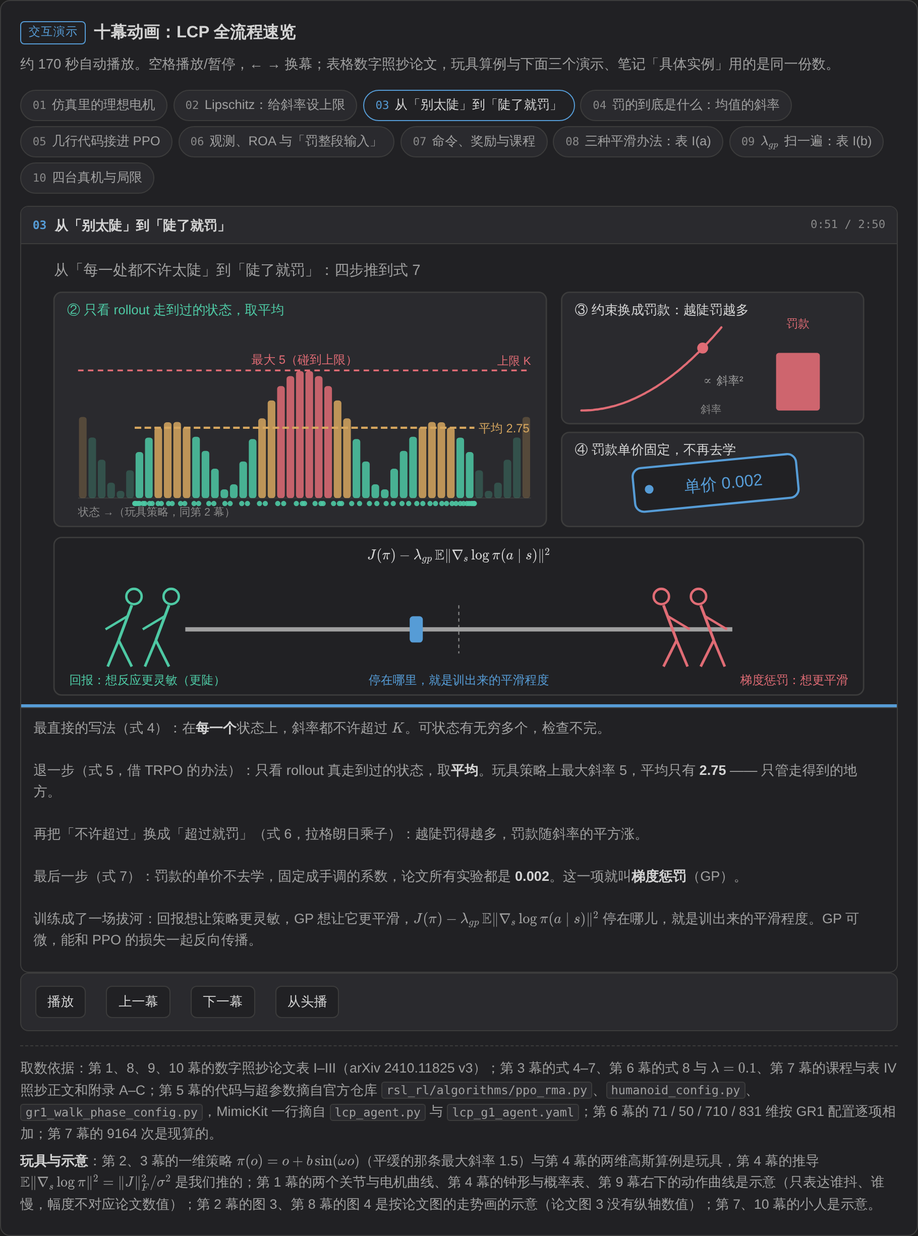
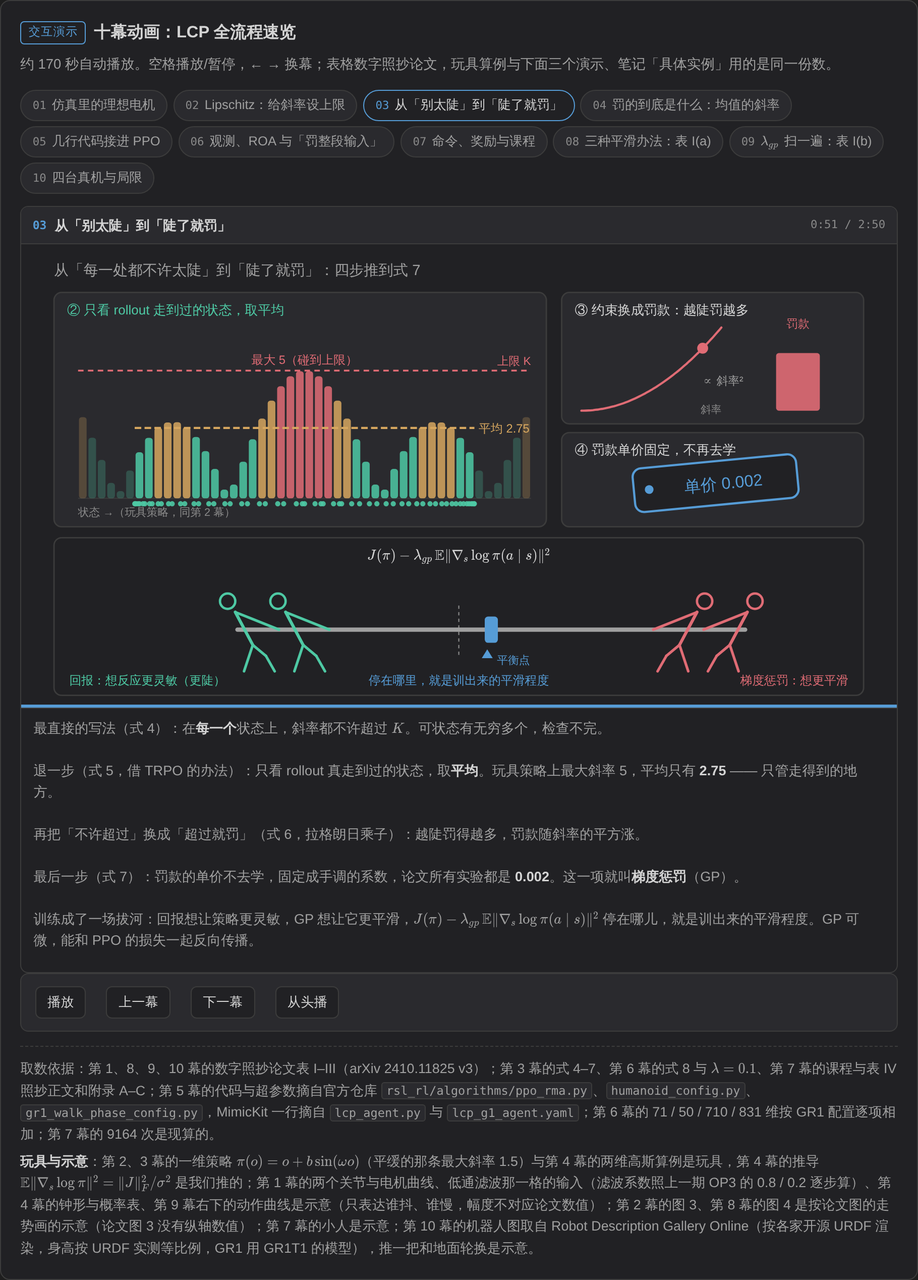
fix(Demo): LCP 第 3 幕拔河改成绳与两队一起动、往后仰拉、停回平衡点；第 10 幕换成按开源 URDF 渲染的真机图
- 第 3 幕：之前绳子不动、只有红标和人在平移，人往前扑、手臂朝后；现在绳子、红标、两队一起移动，
  人往后仰、手握绳，每 7 秒被扯一次、来回晃几下停回「平衡点」，一轮首尾接得上不跳
- 第 10 幕：火柴人换成 Robot Description Gallery Online 按各家开源 URDF 渲染的缩略图（GR1T1、H1、
  Berkeley Humanoid），按 URDF 实测身高等比例站在同一条地面上；表 III 那段地面轮换平地 / 软地 / 粗糙，
  对应的柱子亮起；「外力推搡也能恢复」那段推 H1 一把、绕脚踝晃几下站回
- render.mjs 新增 clip 模式：只渲染一段时间并配同一段旁白，改了某一幕先出这段给人看
- 视频与封面这次没重渲

Claude-Session: https://claude.ai/code/session_013tRtwySF8SsihXoqMvF3PW

diff --git a/assets/js/demos/lcp.js b/assets/js/demos/lcp.js
@@ -21,6 +21,15 @@
   'use strict';
 
   var K = window.PaperDemoKit;
+  /* 第 10 幕的机器人图放在 assets/img/robots/，按本脚本自己的地址找（网页与离线视频都适用） */
+  var ROBOT_IMG_BASE = (function () {
+    var cs = document.currentScript;
+    try {
+      return cs && cs.src ? new URL('../../img/robots/', cs.src).href : '';
+    } catch (e) {
+      return '';
+    }
+  })();
   var el = K.el,
     fmt = K.fmt,
     clamp = K.clamp,
@@ -107,6 +116,14 @@
     ['Fourier GR1T1 / T2', '21 个关节，脚踝横滚力矩太小当被动关节，控制 19 个'],
     ['Unitree H1', '19 个关节，全部主动控制'],
     ['Berkeley Humanoid', '高 0.85 m，12 个自由度'],
+  ];
+  /* 第 10 幕的机器人图：Robot Description Gallery Online（github.com/ImChong/Robot_Description_Gallery_Online）
+     按各家开源 URDF 渲染的缩略图，裁到机身、按 URDF 实测身高等比例缩放（GR1 用的是 GR1T1 的模型）。
+     h 是 URDF 实测身高（m），ar 是图的宽高比；论文只写了伯克利人形高 0.85 m。 */
+  var ROBOT_IMGS = [
+    { file: 'gr1.webp', h: 1.6133, ar: 0.2384 },
+    { file: 'h1.webp', h: 1.806, ar: 0.3047 },
+    { file: 'berkeley_humanoid.webp', h: 0.8735, ar: 0.3771 }
   ];
   /* 官方代码（GR1 配置 gr1_walk_phase_config.py 与 rsl_rl 的 ppo_rma.py）里的数 */
   var OBS_GR1 = {
@@ -1213,23 +1230,34 @@
     var tug = group(s);
     rectBox(tug, 30, 268, 740, 144, C_BORDER);
     tug.appendChild(svgMath(400, 290, 'J(\\pi) - \\lambda_{gp}\\,\\mathbb{E}\\lVert\\nabla_s\\log\\pi(a\\mid s)\\rVert^2', { size: 13, anchor: 'middle', w: 520 }));
-    tug.appendChild(paint(svgEl('line', { x1: 150, y1: 352, x2: 650, y2: 352, 'stroke-width': 4 }), null, C_INK2));
-    var knot = paint(svgEl('rect', { y: 340, width: 12, height: 24, rx: 3 }), C_ACCENT);
-    tug.appendChild(knot);
-    tug.appendChild(paint(svgEl('line', { x1: 400, y1: 330, x2: 400, y2: 374, 'stroke-width': 1, 'stroke-dasharray': '3 3' }), null, C_MUTED));
-    function team(x, dir, color) {
-      var g = group(tug);
-      for (var m = 0; m < 2; m++) {
-        var fx = x + dir * m * 34;
-        g.appendChild(paint(svgEl('circle', { cx: fx + dir * 10, cy: 322, r: 7, fill: 'none', 'stroke-width': 2.2 }), null, color));
-        g.appendChild(paint(svgEl('line', { x1: fx + dir * 8, y1: 330, x2: fx - dir * 4, y2: 362, 'stroke-width': 2.6 }), null, color));
-        g.appendChild(paint(svgEl('line', { x1: fx - dir * 4, y1: 362, x2: fx + dir * 8, y2: 386, 'stroke-width': 2.4 }), null, color));
-        g.appendChild(paint(svgEl('line', { x1: fx - dir * 4, y1: 362, x2: fx - dir * 14, y2: 386, 'stroke-width': 2.4 }), null, color));
-        g.appendChild(paint(svgEl('line', { x1: fx + dir * 4, y1: 340, x2: fx - dir * 16, y2: 352, 'stroke-width': 2.2 }), null, color));
-      }
+    /* 拔河：绳子、绳上的红标和两队人一起移动；人往后仰、手握在绳上。
+       每 7 秒一轮：从平衡点被猛扯一下，来回晃几下又回到「平衡点」（示意：平衡点的位置由系数决定，这里不对应具体数值）。
+       一轮结束时离平衡点不到 0.5，下一轮从平衡点接着开始，不会跳。 */
+    var TUG_Y = 352, TUG_EQ = 26;
+    tug.appendChild(paint(svgEl('line', { x1: 400, y1: 330, x2: 400, y2: 376, 'stroke-width': 1, 'stroke-dasharray': '3 3' }), null, C_MUTED));
+    var eqMark = group(tug);
+    eqMark.appendChild(paint(svgEl('path', { d: 'M' + (400 + TUG_EQ - 5) + ',378 L' + (400 + TUG_EQ + 5) + ',378 L' + (400 + TUG_EQ) + ',370 Z' }), C_ACCENT));
+    eqMark.appendChild(svgText(400 + TUG_EQ + 9, 383, '平衡点', 'demo-x-acc', 10));
+    var moving = group(tug);
+    moving.appendChild(paint(svgEl('line', { x1: 168, y1: TUG_Y, x2: 632, y2: TUG_Y, 'stroke-width': 4, 'stroke-linecap': 'round' }), null, C_INK2));
+    moving.appendChild(paint(svgEl('rect', { x: 394, y: TUG_Y - 12, width: 12, height: 24, rx: 3 }), C_ACCENT));
+    /* 一个人：手握在绳上的 hx，身体往远离中线的方向仰；away = −1 往左拉，+1 往右拉 */
+    function puller(hx, away, color) {
+      var g = group(moving);
+      function X(d) { return hx + away * d; }
+      function ln(x1, y1, x2, y2, w) { g.appendChild(paint(svgEl('line', { x1: x1, y1: y1, x2: x2, y2: y2, 'stroke-width': w, 'stroke-linecap': 'round' }), null, color)); }
+      ln(X(40), 336, hx, TUG_Y, 2.4);            // 手臂伸向绳子
+      ln(X(40), 336, X(24), 366, 2.8);           // 身体往后仰
+      ln(X(24), 366, X(12), 376, 2.4);           // 前腿蹬住
+      ln(X(12), 376, X(4), 390, 2.4);
+      ln(X(24), 366, X(32), 390, 2.4);           // 后腿
+      g.appendChild(paint(svgEl('circle', { cx: X(47), cy: 326, r: 7, fill: 'none', 'stroke-width': 2.2 }), null, color));
       return g;
     }
-    var tL = team(132, 1, C_GOOD), tR = team(668, -1, C_BAD);
+    puller(206, -1, C_GOOD);
+    puller(252, -1, C_GOOD);
+    puller(594, 1, C_BAD);
+    puller(548, 1, C_BAD);
     tug.appendChild(svgText(44, 402, '回报：想反应更灵敏（更陡）', 'demo-x-good', 11));
     tug.appendChild(svgText(756, 402, '梯度惩罚：想更平滑', 'demo-x-bad', 11, 'end'));
     tug.appendChild(svgText(400, 402, '停在哪里，就是训出来的平滑程度', 'demo-x-acc', 11, 'middle'));
@@ -1257,10 +1285,11 @@
       setOpacity(R2, seg(t, 10.4, 11.0));
       tag.setAttribute('transform', 'rotate(' + (6 * Math.sin(2.1 * now)).toFixed(2) + ' 574 224)');
       setOpacity(tug, seg(t, 13.4, 14.0));
-      var off = 40 * Math.sin(1.4 * now) * (0.55 + 0.45 * Math.cos(0.37 * now));
-      knot.setAttribute('x', (394 + off).toFixed(1));
-      tL.setAttribute('transform', 'translate(' + off.toFixed(1) + ' 0)');
-      tR.setAttribute('transform', 'translate(' + off.toFixed(1) + ' 0)');
+      /* 每 7 秒一轮：被一边猛扯，再来回晃，越晃越小，停回平衡点；外加一点点抖，表示两边一直在用力 */
+      var tau = now % 7;
+      var off = TUG_EQ + 46 * Math.sin(2.4 * tau) * Math.exp(-tau / 1.5) + 1.2 * Math.sin(11 * now);
+      moving.setAttribute('transform', 'translate(' + off.toFixed(1) + ' 0)');
+      setOpacity(eqMark, seg(t, 14.6, 15.2));
     }
     return { el: s, draw: draw };
   }
@@ -1968,32 +1997,57 @@
     var s = sceneSvg('四台人形：傅利叶 GR1T1 与 GR1T2 二十一个关节控制十九个，宇树 H1 十九个关节，伯克利人形高 0.85 米十二个自由度；表 II MuJoCo 任务回报 24.33、21.74、26.50；表 III 真机三种地面动作抖动基本不变，最多涨 8%；局限：只验证了基础行走');
     s.appendChild(svgText(30, 28, '四台人形：先 MuJoCo，再上真机，一个系数 0.002', 'demo-x-ink2', 13.5));
 
+    /* 三台机器人站在同一条地面上，按 URDF 实测身高等比例；地面在表 III 那一段轮换平地 / 软地 / 粗糙 */
     var robots = group(s);
-    var figs = [];
-    ROBOTS.forEach(function (r, k) {
-      var x = 30 + k * 250;
-      var g = group(robots);
-      rectBox(g, x, 42, 240, 116, C_BORDER, C_SURFACE2);
-      g.appendChild(svgText(x + 12, 62, r[0], null, 12));
-      var parts = r[1].split('，');
-      parts.forEach(function (p, q) {
-        g.appendChild(svgText(x + 12, 84 + q * 18, p, 'demo-x-ink2', 10.5));
+    rectBox(robots, 30, 42, 740, 152, C_BORDER, C_SURFACE2);
+    var defs = svgEl('defs', {});
+    var halo = svgEl('radialGradient', { id: 'lcp-x-halo-s10' });
+    halo.appendChild(svgEl('stop', { offset: '0', 'stop-color': '#a3acb9', 'stop-opacity': '0.5' }));
+    halo.appendChild(svgEl('stop', { offset: '1', 'stop-color': '#a3acb9', 'stop-opacity': '0' }));
+    defs.appendChild(halo);
+    s.appendChild(defs);
+    var GY = 176, PPM_U = 68;
+    var gFlat = group(robots), gSoft = group(robots), gRough = group(robots);
+    /* 地面颜色与表 III 图例一致：平地蓝、软地黄、粗糙红 */
+    gFlat.appendChild(paint(svgEl('line', { x1: 40, y1: GY, x2: 760, y2: GY, 'stroke-width': 1.8 }), null, C_ACCENT));
+    gSoft.appendChild(paint(svgEl('rect', { x: 40, y: GY - 2, width: 720, height: 9, rx: 4, 'fill-opacity': 0.28 }), C_WARN));
+    pathLine(gSoft, (function () {
+      var pts = [];
+      for (var x = 40; x <= 760; x += 6) pts.push([x, GY + 1.2 * Math.sin(x / 9)]);
+      return pts;
+    })(), C_WARN, 1.4);
+    pathLine(gRough, (function () {
+      var pts = [], rng = mulberry32(12);
+      for (var x = 40; x <= 760; x += 7) pts.push([x, GY + 1 - 4 * rng()]);
+      return pts;
+    })(), C_BAD, 1.6);
+    var terrainTxt = svgText(40, 189, '', 'demo-x-mut', 9.5);
+    robots.appendChild(terrainTxt);
+    robots.appendChild(svgText(762, 189, '图：Robot Description Gallery Online，按开源 URDF 渲染 · 身高按 URDF 等比例', 'demo-x-mut', 9, 'end'));
+    var bots = ROBOTS.map(function (r, k) {
+      var x0 = 30 + k * 247, cx = x0 + 44, im = ROBOT_IMGS[k];
+      var hU = im.h * PPM_U, wU = hU * im.ar;
+      var col = group(robots);
+      col.appendChild(paint(svgEl('ellipse', { cx: cx, cy: GY - hU * 0.5, rx: 34, ry: hU * 0.58 }), 'url(#lcp-x-halo-s10)'));
+      var body = group(col);
+      body.appendChild(svgEl('image', { href: ROBOT_IMG_BASE + im.file, x: (cx - wU / 2).toFixed(1), y: (GY - hU).toFixed(1), width: wU.toFixed(1), height: hU.toFixed(1), preserveAspectRatio: 'xMidYMax meet' }));
+      col.appendChild(svgText(x0 + 84, 66, r[0], null, 12));
+      r[1].split('，').forEach(function (p, q) {
+        col.appendChild(svgText(x0 + 84, 86 + q * 18, p, 'demo-x-ink2', 10.5));
       });
-      var full = k < 2;
-      var fig = K.stickFigure(k === 2 ? C_GOOD : C_ACCENT, 2.4, false, 0.4);
-      fig.el.setAttribute('transform', 'translate(' + (x + 200) + ',' + (full ? 98 : 124) + ') scale(' + (full ? 0.62 : 0.33) + ')');
-      g.appendChild(fig.el);
-      figs.push(fig);
-      g.at = 0.3 + k * 1.1;
-      return g;
+      return { col: col, body: body, cx: cx, hU: hU };
     });
-    var robotTag = group(s);
-    robotTag.appendChild(svgText(770, 172, '小人是示意；只有伯克利人形的身高写在论文里', 'demo-x-mut', 9.5, 'end'));
+    /* 推一把：外力推搡也能恢复（补充视频），推 H1 的身体，绕脚踝晃几下站回来 */
+    var push = group(robots);
+    var pushMk = K.arrowMarker(s, 'lcp-x-arrow-s10', C_WARN);
+    var pushY = GY - bots[1].hU * 0.62;
+    push.appendChild(paint(svgEl('line', { x1: bots[1].cx - 62, y1: pushY, x2: bots[1].cx - 22, y2: pushY, 'stroke-width': 3.4, 'marker-end': pushMk }), null, C_WARN));
+    push.appendChild(svgText(bots[1].cx - 64, pushY - 8, '推一把', 'demo-x-warn', 10));
 
     var s2s = group(s);
-    rectBox(s2s, 30, 182, 230, 150, C_BORDER, C_SURFACE2);
-    s2s.appendChild(svgText(42, 200, '表 II：MuJoCo 任务回报', 'demo-x-ink2', 11));
-    var SB = 304, SH = 80;
+    rectBox(s2s, 30, 200, 230, 132, C_BORDER, C_SURFACE2);
+    s2s.appendChild(svgText(42, 218, '表 II：MuJoCo 任务回报', 'demo-x-ink2', 11));
+    var SB = 304, SH = 70;
     var sNames = ['GR1', 'H1', 'Berkeley'];
     var sBars = TABLE2.map(function (r, k) {
       var bx = 52 + k * 70;
@@ -2006,8 +2060,8 @@
     s2s.appendChild(paint(svgEl('line', { x1: 44, y1: SB, x2: 252, y2: SB, 'stroke-width': 1 }), null, C_BORDER));
 
     var real = group(s);
-    rectBox(real, 274, 182, 496, 150, C_BORDER, C_SURFACE2);
-    real.appendChild(svgText(286, 200, '表 III：真机动作抖动（3 个模型 × 10 s）', 'demo-x-ink2', 11));
+    rectBox(real, 274, 200, 496, 132, C_BORDER, C_SURFACE2);
+    real.appendChild(svgText(286, 218, '表 III：真机动作抖动（3 个模型 × 10 s）', 'demo-x-ink2', 11));
     var RB = 304, RH = 75;
     var tCols = [C_ACCENT, C_WARN, C_BAD];
     var rBars = [];
@@ -2025,8 +2079,8 @@
     real.appendChild(paint(svgEl('line', { x1: 286, y1: RB, x2: 760, y2: RB, 'stroke-width': 1 }), null, C_BORDER));
     var tLeg = group(real);
     TERRAINS.forEach(function (n, q) {
-      tLeg.appendChild(paint(svgEl('rect', { x: 560 + q * 70, y: 192, width: 10, height: 10, rx: 2 }), tCols[q]));
-      tLeg.appendChild(svgText(574 + q * 70, 201, n, 'demo-x-mut', 9.5));
+      tLeg.appendChild(paint(svgEl('rect', { x: 560 + q * 70, y: 210, width: 10, height: 10, rx: 2 }), tCols[q]));
+      tLeg.appendChild(svgText(574 + q * 70, 219, n, 'demo-x-mut', 9.5));
     });
 
     var lim = group(s);
@@ -2036,18 +2090,33 @@
 
     function draw(t, clock) {
       var now = clock == null ? t : clock;
-      robots.childNodes.forEach(function (g, k) { setOpacity(g, seg(t, 0.3 + k * 1.1, 0.9 + k * 1.1)); });
-      figs.forEach(function (f, k) { f.pose(0, 0, K.poseWalk((now * 0.9 + k * 0.33) % 1)); });
-      setOpacity(robotTag, seg(t, 3.0, 3.6));
+      setOpacity(robots, seg(t, 0.2, 0.6));
+      var pushOn = seg(t, 10.4, 10.8), ptau = now % 4;
+      bots.forEach(function (b, k) {
+        setOpacity(b.col, seg(t, 0.3 + k * 1.1, 0.9 + k * 1.1));
+        var th = 0.7 * Math.sin(1.3 * now + 2 * k);
+        if (k === 1 && pushOn > 0) th += 9 * Math.exp(-ptau / 0.7) * Math.sin(6 * ptau) * pushOn;
+        b.body.setAttribute('transform', 'rotate(' + th.toFixed(2) + ' ' + b.cx + ' ' + GY + ')');
+      });
+      setOpacity(push, pushOn * clamp(1 - (ptau - 0.25) / 0.35, 0, 1));
+      /* 表 III 那一段起，地面每 2.5 秒换一种，柱子里对应的那一种亮起来 */
+      var ter = t >= 7.0 ? Math.floor(now / 2.5) % 3 : 0;
+      setOpacity(gFlat, ter === 0 ? 1 : 0);
+      setOpacity(gSoft, ter === 1 ? 1 : 0);
+      setOpacity(gRough, ter === 2 ? 1 : 0);
+      terrainTxt.textContent = '地面：' + TERRAINS[ter];
       setOpacity(s2s, seg(t, 3.6, 4.2));
       sBars.forEach(function (it, k) {
         setH(it.b, it.h * ease(seg(t, 4.0 + k * 0.4, 4.8 + k * 0.4)));
         setOpacity(it.lab, seg(t, 4.6 + k * 0.4, 5.0 + k * 0.4));
       });
       setOpacity(real, seg(t, 7.0, 7.6));
+      var lit = seg(t, 8.8, 9.2);
       rBars.forEach(function (it, k) {
         setH(it.b, it.h * ease(seg(t, 7.4 + k * 0.2, 8.2 + k * 0.2)));
-        setOpacity(it.lab, seg(t, 8.0 + k * 0.2, 8.4 + k * 0.2));
+        var dim = k % 3 === ter ? 1 : 1 - 0.6 * lit;
+        it.b.style.opacity = (0.9 * dim).toFixed(2);
+        setOpacity(it.lab, seg(t, 8.0 + k * 0.2, 8.4 + k * 0.2) * dim);
       });
       setOpacity(lim, seg(t, 10.4, 11.0));
       setOpacity(fin, seg(t, 13.4, 14.0));
@@ -2186,7 +2255,7 @@
       notes: [
         '取数依据：第 1、8、9、10 幕的数字照抄论文表 I–III（arXiv 2410.11825 v3）；第 3 幕的式 4–7、第 6 幕的式 8 与 $\\lambda = 0.1$、第 7 幕的课程与表 IV 照抄正文和附录 A–C；' +
           '第 5 幕的代码与超参数摘自官方仓库 `rsl_rl/algorithms/ppo_rma.py`、`humanoid_config.py`、`gr1_walk_phase_config.py`，MimicKit 一行摘自 `lcp_agent.py` 与 `lcp_g1_agent.yaml`；第 6 幕的 71 / 50 / 710 / 831 维按 GR1 配置逐项相加；第 7 幕的 9164 次是现算的。',
-        '**玩具与示意**：第 2、3 幕的一维策略 $\\pi(o) = o + b\\sin(\\omega o)$（平缓的那条最大斜率 1.5）与第 4 幕的两维高斯算例是玩具，第 4 幕的推导 $\\mathbb{E}\\lVert\\nabla_s\\log\\pi\\rVert^2 = \\lVert J\\rVert_F^2/\\sigma^2$ 是我们推的；第 1 幕的两个关节与电机曲线、低通滤波那一格的输入（滤波系数照上一期 OP3 的 0.8 / 0.2 逐步算）、第 4 幕的钟形与概率表、第 9 幕右下的动作曲线是示意（只表达谁抖、谁慢，幅度不对应论文数值）；第 2 幕的图 3、第 8 幕的图 4 是按论文图的走势画的示意（论文图 3 没有纵轴数值）；第 7、10 幕的小人是示意。'
+        '**玩具与示意**：第 2、3 幕的一维策略 $\\pi(o) = o + b\\sin(\\omega o)$（平缓的那条最大斜率 1.5）与第 4 幕的两维高斯算例是玩具，第 4 幕的推导 $\\mathbb{E}\\lVert\\nabla_s\\log\\pi\\rVert^2 = \\lVert J\\rVert_F^2/\\sigma^2$ 是我们推的；第 1 幕的两个关节与电机曲线、低通滤波那一格的输入（滤波系数照上一期 OP3 的 0.8 / 0.2 逐步算）、第 4 幕的钟形与概率表、第 9 幕右下的动作曲线是示意（只表达谁抖、谁慢，幅度不对应论文数值）；第 2 幕的图 3、第 8 幕的图 4 是按论文图的走势画的示意（论文图 3 没有纵轴数值）；第 7 幕的小人是示意；第 10 幕的机器人图取自 Robot Description Gallery Online（按各家开源 URDF 渲染，身高按 URDF 实测等比例，GR1 用 GR1T1 的模型），推一把和地面轮换是示意。'
       ],
       scenes: LCP_SCENES
     });

diff --git a/AGENTS.md b/AGENTS.md
@@ -85,7 +85,7 @@ Jekyll 把笔记渲染成同名 `.html`，源 `.md` 不会发布，所以 `[PPO]
 
 ### 讲解动画的幕数按内容定，不是固定五幕
 
-`K.explainer` 不限制分镜数量，**幕数应当由论文本身决定**：一个核心概念一幕，开篇提出几个问题就得有几幕来回答，不要为了凑齐模板而拆分或合并。当前 PPO / DeepMimic / AMP / ADD / CALM 各 5 幕（与各自笔记「是怎么做的」那几节一一对应），PHC 6 幕（开篇立了三堵墙，第一堵墙需要「先长出列」「再混合列」两幕），AWR 6 幕（PPO 留下三个麻烦、① 评估、② 指数权重、加权回归就是加权平均、off-policy 的赚与亏、闭环与源码落点，正好六件事），ASE 6 幕（它在 AMP 上叠了六件事：latent code / 为什么必须约束 / encoder / 两半奖励 / diversity / 定期重采样，挤进五幕会让 encoder、奖励拆两半和 diversity 三块共用同一帧，谁都读不清），PULSE 6 幕（三个阶段各一幕，外加开篇的「缺一个通用表示」、命门 VIB 与本体感受先验各一幕 —— VIB 和先验是两件独立的事，合成一幕会让 β 的取舍和「固定先验会踩空」抢同一块画面），SONIC 7 幕（任务选错了 / 三轴一起放大 / universal token space / 五项 aux loss 焊住潜空间 / 实时 kinematic planner / System-1 + System-2 / 数据到实机的闭环 —— 「三路 encoder 汇进一个 FSQ」和「靠五项 aux loss 保证三路真落在同一空间」是两件独立的事，规划器与 VLA 接入也是，压进六幕就会有两幕各塞两件事），GR00T N1 7 幕（没有人形互联网 / 10 Hz 的第 12 层与 63.9 ms 的动作块 / 流匹配路径和 K=4 欧拉 / 数据金字塔三层 / 潜动作与 IDM 补标签 / 一套权重加按本体的 MLP / Table 2–3 的任务加权平均和短程桌面的边界 —— 「频率怎么接」和「流匹配公式」是两件独立的事，金字塔回答数据放哪一层、潜动作回答标签从哪来，压进六幕会有两幕各塞两件），Cosmos 5 幕（为什么要世界模型 / 视频整理 / 因果 tokenizer / 扩散与自回归并列预训练 / 三类后训练示例 —— 扩散和自回归是两条预训练路线，画成前后两级会把 Table 10 的模型地图读反，所以第 4 幕必须是并排的两列），GMR 7 幕（retargeting 被当成前处理脚本 / 一条管线接 5 种格式 × 18+ 款机器人 / 论文的五步显式流程 / 非均匀局部缩放为什么是关键 / mink + DAQP 的两阶段约束 IK / 「Retargeting Matters」的定量论据 / 闭环与源码落点 —— 「五步流程」是论文层面的分解、「两阶段 IK」是代码层面的两张 match table，合成一幕会把两套分解叠在同一块画面上，而第 ③ 步非均匀局部缩放是全篇关键创新，撑得起单独一幕），OmniRetarget 7 幕（现有 retargeting 只盯人体关键点 / interaction mesh 的 Delaunay 四面体 / Laplacian 形变能 / 序贯 SOCP 硬约束 / 一条演示四路扩增 / 极简 RL 与 Table II 定量论据 / 数据工厂到 G1 真机的闭环 —— 「网格保形」是目标、「硬约束」是可行域，合成一幕会让能量和 SDF/脚粘地抢同一块画面；扩增与下游 RL 也是两件独立的事），Diffusion Policy 7 幕（平均动作撞障 / 条件扩散 / action chunking / 视觉条件 + FiLM / DDIM 加速 / receding horizon / 定量证据与局限 —— 「扩散过程」和「一次吐多长」是两件独立的事，视觉条件与 DDIM 加速也是，压进五幕会让 chunking、FiLM 和 RHC 抢同一帧），LCP 10 幕（仿真里的理想电机 / Lipschitz：给斜率设上限 / 从「别太陡」到「陡了就罚」 / 罚的到底是什么：均值的斜率 / 几行代码接进 PPO / 观测、ROA 与罚整段输入 / 命令、奖励与课程 / 三种平滑办法（表 I(a)）/ $\lambda_{gp}$ 扫一遍（表 I(b)）/ 四台真机与局限 —— 方法节的「为什么约束梯度」（式 1–2 与图 3 的圆锥）和「怎么变成可微的一项」（式 4–7 四步）各占一幕，读懂式 7 还要单独看一个高斯策略罚的是什么（均值的斜率，噪声越小罚得越重），代码与超参数又是一幕；训练设置里「罚哪些输入」（表 I(c)）与「平滑奖励拿掉后还剩什么」（表 IV、附录 B 的课程）是两件事；结果一表一幕，压回五幕会让四步推导和圆锥、五档系数的柱和四种办法的柱抢同一帧；第二版按「公式太多」的反馈改成以动图为主：两个关节跟指令、两条策略抖给你看、罚款与拔河、钟形沿均值线滑动、旋钮拧过五档，每幕最多留一条公式；动画、三个演示、配音旁白与笔记「🚶 具体实例」共用同一份论文数字，第 2–4 幕的一维策略与两维高斯是标明的玩具，`test_lcp_explainer_demos_and_worked_example_share_the_paper_numbers` 会核对），BeyondMimic 12 幕（两个缺口 / 锚定跟踪 / 奖励：四个高斯加三项正则 / 观测：单步与 Rot6D / 动作与关节阻抗 / 随机化与部署延迟 / 自适应采样 / 跟踪上真机 / VAE 潜空间 / 状态—潜动作扩散 / 代价引导 / 测试时的任务与边界 —— 以 arXiv v4 为准：方法节按 MDP 的组成一块一块写，锚定、奖励（表 S1）、观测、阻抗（表 S3 / S4）、随机化（表 S2）、自适应采样各有公式和图 8 的一组消融，所以第 2–7 幕一块一幕，「观测」与「阻抗」在正文同属一节，但证据分别是图 8A 的朝向 / 历史两行与 armature 一行加图 S2，合成一幕会让两组柱子抢同一帧；VAE 与扩散是两个训练阶段，引导是推理时的事；结果按正文的两节各一幕；第 2、5、7、11 幕与四个演示、配音旁白、笔记「🚶 具体实例」共用同一份论文数字，图 8A / 图 S2 是读图近似值，`test_beyondmimic_explainer_demos_and_worked_example_share_the_paper_numbers` 会核对），UMR 8 幕（骨架中心的对应一款机器人一套配方 / 体表点云当接口、形变而非匹配 / 三项损失与测地图 / 绑定与位姿残差 / 接触图共用环境点 / 阻尼约束 GN QP / 三个尺度的定量证据 / 闭环与源码落点 —— 位姿残差和接触残差是论文里两条独立的残差，「怎么学对应」和「为什么非要 Edge 项」也是两件事，压进七幕会让左右翻转的算例和点云形变动画抢同一块画面；第 3–6 幕的小算例与笔记「🧮 数据计算实例」共用同一组数字），PHP 8 幕（跑酷四关 / 动作匹配的最近邻 / 临界阻尼弹簧把命令变成查询 / Loco → Skill → Loco 的拼接与入口密度 / 单技能专家 / DAgger 盲区与 PPO 课程 / 深度学生只拿速度命令 / 定量证据与真机 —— 「怎么找帧」和「查询从哪来」是论文附录 A 里分开的两节，「专家」与「蒸馏」是两个训练阶段，深度相机建模又是 sim-to-real 的主要工作量，压进七幕会让课程曲线和相机噪声抢同一帧），Perceptive BFM 7 幕（操作者—环境错配 / PMT 四阶段与「TCRS 只教不用」的契约 / TCRS 摆腿：接触、中足、MPPI / TCRS 身体：根高度、碰撞修复、多点 IK / 目标系动作对齐 / 恒等门控残差 / 定量证据与边界 —— TCRS 的「脚怎么走」与「身体怎么跟」各是一组公式，合成一幕会让 MPPI 候选表和根高度滤波抢画面；对齐与门控是论文两条独立的消融，各占一幕）。GentleHumanoid 7 幕（跟踪策略把外力当扰动 / 阻抗参考动力学 / 抵抗与引导两种交互弹簧 / 受力暴露的多样性 / 安全力阈值 / 教师—学生与柔顺奖励 / 定量证据与局限 —— 「交互力长什么样」与「什么时候、在哪几个 link、多硬」是论文式 3–4 与附录 A 调度两件事，阈值又有自己的截断公式与 ISO 换算，合并会让子步积分表、平衡点表与压强换算挤在同一帧）。四足野外盲走 9 幕（野外为什么难 / 相位振荡器 + 足端残差的动作空间 / 特权教师 / 本体学生 / 自适应地形课程 / 野外零样本与表 1 / 室内对照 / 记忆长度与踩空反射 / 解码器与局限 —— 论文的三个支柱 TCN 记忆、特权训练、地形课程各有一节方法和一组消融，加上单独的 Motion synthesis 就是第 2–5 幕；「野外 + 地下挑战赛」（表 1）与「室内台阶 / 负重 / 打滑」（图 3）是两类证据，「记忆要多长」（图 5B–D + 图 6）与「记忆里装了什么」（图 S2 的解码器）是验证节与分析节的两段，合成一幕会让表 1 的柱子和图 3E 的折线、或三档消融柱和摩擦曲线抢同一帧；动画、三个演示与笔记「🚶 具体实例」共用同一份论文数字，`test_quadterrain_explainer_demos_and_worked_example_share_the_paper_numbers` 会核对）。真实世界人形行走 10 幕（全尺寸人形为什么难 / 因果 Transformer / 两步训练 / 奖励与命令 / 虚拟弹簧与域随机化 / 户外与实验室 / 自然行走 / 下坡换步态 / 脚被绊住 / 消融与局限 —— 方法节的网络、训练目标、奖励、仿真各一幕；结果按论文的图一图一幕，图 5 的「慢变化改步态」与图 6 的「快变化被绊住」是上下文适应的两种时间尺度，各有一组神经元分析，合成一幕会让两条神经元曲线、二维散点和热图抢同一帧；14 项奖励塞进训练那一幕会和式 2、λ 曲线、图 8C 挤在一起；十幕起 `kit.js` 的幕号显示成 10 而不是 010，动画、三个演示、配音旁白与笔记「🚶 具体实例」共用同一份论文数字，命令、奖励、随机化、PPO 规模取自 arXiv v1 附录，图 2D、图 8 是读图近似值，`test_realhumanoid_explainer_demos_and_worked_example_share_the_paper_numbers` 会核对）。ASAP 12 幕（仿真里跳得起来、真机跳不动 / 从人类视频到 G1 参考动作 / 相位跟踪策略 / 上真机录一遍 / 残差动作模型 / 冻结 Δ 微调、部署时拿掉 / 开环回放（表 III）/ 闭环微调（表 IV）/ 真机只学脚踝（表 V）/ 怎么训 Δ（图 10）/ 怎么用 Δ（图 11）/ Δ 学到了什么与局限（图 12、13）—— 方法节「采数据」与「训练 Δ」是第 III-A、III-B 两节，Δ 的训练与使用各有一条式子；结果按论文自己提的 Q1–Q6 一问一幕，压成十幕会让表 III 与表 IV、或图 11 的曲线与图 12 的噪声柱抢同一帧；局限和真机那一幕讲的是同一批约束，并进最后一幕；第 5、11 幕的单关节玩具（G1 脚踝刚度 20、0.65 倍刚度的 −0.35 取自官方代码）与一步匹配的不动点 0.4077、三个演示、配音旁白与笔记「🚶 具体实例」共用同一份数字，图 5、图 11 是读图近似值，`test_asap_explainer_demos_and_worked_example_share_the_paper_numbers` 会核对，并用 Python 重跑一遍单关节玩具）。HumanML3D 9 幕（文本生成动作卡在哪 / 数据集怎么建 / 一帧 263 维 / 每 4 帧一个 snippet code / Text2Length / 时序 VAE 的一步 / 三项损失与课程学习 / 评测器与 R-Precision / 结果、消融与遗产 —— 一篇论文同时交了数据集、方法和评测协议：数据集的「怎么建」与「每帧存什么」是正文第 4、5 节两段，自编码器、长度采样、VAE 结构与训练方案在 §3.1–3.3 各自独立，评测器是附录 B 里后来被整个领域沿用的贡献，不能和 Table 2 的数字挤在一帧）。PHP、Perceptive BFM、GentleHumanoid 与 HumanML3D 的动画算例与笔记「🚶 具体实例」共用同一组数字（HumanML3D 用的是官方仓库自带的真实片段 `012314`）。Transformer 7 幕（RNN 的串行瓶颈 / 缩放点积注意力手算 / 为什么除以 $\sqrt{d_k}$ / 多头 / 位置编码 / 编码器—解码器与因果掩码 / 训练配方与结果 —— 「一次注意力怎么算」与「为什么要缩放」是 $d_k = 4$ 与 $d_k = 64$ 两组数，合成一幕会让权重条和梯度对比抢画面），π₀ 7 幕（三道坎 / 两套权重 / 分块掩码与 KV 缓存 / 流匹配 / 动作块与推理预算 / 数据与配方 / 实验与边界 —— 附录 B 里「两套权重」和「掩码」是分开的两段），π₀.₅ 7 幕（开放世界的难题 / 异构数据 / 两层推理 / 离散 + 连续两阶段 / 输入输出与部署 / 训练地点数 / 消融 —— 两层推理是推理时的分解、两阶段是训练时的分解），OP3 足球 12 幕（为什么是足球 / 一步控制 / 踢球教师 / 起身教师 / 按状态蒸馏与 λ / 自博弈 / 奖励与安全正则 / 零样本上真机 / 对比脚本控制器 / 定位球与对手意识 / 行为嵌入与价值函数 / 局限与之后 —— 两个阶段各有两件独立的事：踢球教师与起身教师是分开训的两个策略，蒸馏回答「向谁学」（式 2–3 的 λ）、自博弈回答「和谁踢」（对手池与图 7），论文是两段与两组消融；观测与滤波撑得起单独一幕；结果按论文小节一节一幕（表 1 与测法、图 5、图 4 + 图 6），压回七幕会让 λ 曲线和对手池、四项基本功和定位球抢同一帧；动画、三个演示、配音旁白与笔记「🚶 具体实例」共用同一份论文数字，156% / 24% 是 arXiv v1 的另一种测法，`test_op3soccer_explainer_demos_and_worked_example_share_the_paper_numbers` 会核对；十二幕的封面目录排成两列，单列会落到 3:4 裁剪线以下），SMP 8 幕（对抗先验不能复用 / 预训练冻结的扩散模型 / SDS 残差当奖励 / ESM 固定三档 / AdaNorm 按档归一化 / GSI 生成初始状态 / CFG 与上下半身组合 / 闭环、证据与边界 —— ESM 与 AdaNorm 同在论文 5.1 节，但一个管「抽哪一档」（方差，表 5 / 7）、一个管「三档怎么加」（量级，表 6），合成一幕会让 50 档的对数曲线和三档占比条抢同一帧；第 3–5、7 幕的二维玩具算例与笔记「🚶 具体实例」共用同一组数，`test_smp_explainer_and_worked_example_share_the_same_numbers` 会核对），域随机化 8 幕（现实鸿沟与第三条路 / 七项随机化与三种纹理 / 相机不标定 / VGG-16 检测器与训练 / 真机 1.5 cm / 图 4–5 的张数与纹理种数 / 表 2 逐项拿掉 / 真机抓取与之后 —— 「随机什么」与「相机怎么随机」是论文 III-A 里两件事，后者有自己的 10 × 5 × 10 cm / 0.1 rad / 5% 与桌高固定；「要多少」（图 4、图 5 两条对数轴曲线）与「拿掉哪一项」（表 2 的分组柱）是 IV-C 里两组独立的消融，合成一幕会抢同一帧；第 3、5–7 幕与三个演示、笔记「🚶 具体实例」共用同一份论文数字，图 4 / 图 5 是读图近似值，`test_dr_explainer_demos_and_worked_example_share_the_paper_numbers` 会核对）；Transformer、π₀、π₀.₅ 三篇的动画算例与笔记「🚶 具体实例」共用同一组数字，`tests/test_paper_demos.py::test_vla_explainers_share_numbers_with_their_notes` 会核对。
+`K.explainer` 不限制分镜数量，**幕数应当由论文本身决定**：一个核心概念一幕，开篇提出几个问题就得有几幕来回答，不要为了凑齐模板而拆分或合并。当前 PPO / DeepMimic / AMP / ADD / CALM 各 5 幕（与各自笔记「是怎么做的」那几节一一对应），PHC 6 幕（开篇立了三堵墙，第一堵墙需要「先长出列」「再混合列」两幕），AWR 6 幕（PPO 留下三个麻烦、① 评估、② 指数权重、加权回归就是加权平均、off-policy 的赚与亏、闭环与源码落点，正好六件事），ASE 6 幕（它在 AMP 上叠了六件事：latent code / 为什么必须约束 / encoder / 两半奖励 / diversity / 定期重采样，挤进五幕会让 encoder、奖励拆两半和 diversity 三块共用同一帧，谁都读不清），PULSE 6 幕（三个阶段各一幕，外加开篇的「缺一个通用表示」、命门 VIB 与本体感受先验各一幕 —— VIB 和先验是两件独立的事，合成一幕会让 β 的取舍和「固定先验会踩空」抢同一块画面），SONIC 7 幕（任务选错了 / 三轴一起放大 / universal token space / 五项 aux loss 焊住潜空间 / 实时 kinematic planner / System-1 + System-2 / 数据到实机的闭环 —— 「三路 encoder 汇进一个 FSQ」和「靠五项 aux loss 保证三路真落在同一空间」是两件独立的事，规划器与 VLA 接入也是，压进六幕就会有两幕各塞两件事），GR00T N1 7 幕（没有人形互联网 / 10 Hz 的第 12 层与 63.9 ms 的动作块 / 流匹配路径和 K=4 欧拉 / 数据金字塔三层 / 潜动作与 IDM 补标签 / 一套权重加按本体的 MLP / Table 2–3 的任务加权平均和短程桌面的边界 —— 「频率怎么接」和「流匹配公式」是两件独立的事，金字塔回答数据放哪一层、潜动作回答标签从哪来，压进六幕会有两幕各塞两件），Cosmos 5 幕（为什么要世界模型 / 视频整理 / 因果 tokenizer / 扩散与自回归并列预训练 / 三类后训练示例 —— 扩散和自回归是两条预训练路线，画成前后两级会把 Table 10 的模型地图读反，所以第 4 幕必须是并排的两列），GMR 7 幕（retargeting 被当成前处理脚本 / 一条管线接 5 种格式 × 18+ 款机器人 / 论文的五步显式流程 / 非均匀局部缩放为什么是关键 / mink + DAQP 的两阶段约束 IK / 「Retargeting Matters」的定量论据 / 闭环与源码落点 —— 「五步流程」是论文层面的分解、「两阶段 IK」是代码层面的两张 match table，合成一幕会把两套分解叠在同一块画面上，而第 ③ 步非均匀局部缩放是全篇关键创新，撑得起单独一幕），OmniRetarget 7 幕（现有 retargeting 只盯人体关键点 / interaction mesh 的 Delaunay 四面体 / Laplacian 形变能 / 序贯 SOCP 硬约束 / 一条演示四路扩增 / 极简 RL 与 Table II 定量论据 / 数据工厂到 G1 真机的闭环 —— 「网格保形」是目标、「硬约束」是可行域，合成一幕会让能量和 SDF/脚粘地抢同一块画面；扩增与下游 RL 也是两件独立的事），Diffusion Policy 7 幕（平均动作撞障 / 条件扩散 / action chunking / 视觉条件 + FiLM / DDIM 加速 / receding horizon / 定量证据与局限 —— 「扩散过程」和「一次吐多长」是两件独立的事，视觉条件与 DDIM 加速也是，压进五幕会让 chunking、FiLM 和 RHC 抢同一帧），LCP 10 幕（仿真里的理想电机 / Lipschitz：给斜率设上限 / 从「别太陡」到「陡了就罚」 / 罚的到底是什么：均值的斜率 / 几行代码接进 PPO / 观测、ROA 与罚整段输入 / 命令、奖励与课程 / 三种平滑办法（表 I(a)）/ $\lambda_{gp}$ 扫一遍（表 I(b)）/ 四台真机与局限 —— 方法节的「为什么约束梯度」（式 1–2 与图 3 的圆锥）和「怎么变成可微的一项」（式 4–7 四步）各占一幕，读懂式 7 还要单独看一个高斯策略罚的是什么（均值的斜率，噪声越小罚得越重），代码与超参数又是一幕；训练设置里「罚哪些输入」（表 I(c)）与「平滑奖励拿掉后还剩什么」（表 IV、附录 B 的课程）是两件事；结果一表一幕，压回五幕会让四步推导和圆锥、五档系数的柱和四种办法的柱抢同一帧；第二版按「公式太多」的反馈改成以动图为主：两个关节跟指令、两条策略抖给你看、罚款与拔河、钟形沿均值线滑动、旋钮拧过五档，每幕最多留一条公式，第 10 幕的三台机器人是按开源 URDF 渲染的真机图；动画、三个演示、配音旁白与笔记「🚶 具体实例」共用同一份论文数字，第 2–4 幕的一维策略与两维高斯是标明的玩具，`test_lcp_explainer_demos_and_worked_example_share_the_paper_numbers` 会核对），BeyondMimic 12 幕（两个缺口 / 锚定跟踪 / 奖励：四个高斯加三项正则 / 观测：单步与 Rot6D / 动作与关节阻抗 / 随机化与部署延迟 / 自适应采样 / 跟踪上真机 / VAE 潜空间 / 状态—潜动作扩散 / 代价引导 / 测试时的任务与边界 —— 以 arXiv v4 为准：方法节按 MDP 的组成一块一块写，锚定、奖励（表 S1）、观测、阻抗（表 S3 / S4）、随机化（表 S2）、自适应采样各有公式和图 8 的一组消融，所以第 2–7 幕一块一幕，「观测」与「阻抗」在正文同属一节，但证据分别是图 8A 的朝向 / 历史两行与 armature 一行加图 S2，合成一幕会让两组柱子抢同一帧；VAE 与扩散是两个训练阶段，引导是推理时的事；结果按正文的两节各一幕；第 2、5、7、11 幕与四个演示、配音旁白、笔记「🚶 具体实例」共用同一份论文数字，图 8A / 图 S2 是读图近似值，`test_beyondmimic_explainer_demos_and_worked_example_share_the_paper_numbers` 会核对），UMR 8 幕（骨架中心的对应一款机器人一套配方 / 体表点云当接口、形变而非匹配 / 三项损失与测地图 / 绑定与位姿残差 / 接触图共用环境点 / 阻尼约束 GN QP / 三个尺度的定量证据 / 闭环与源码落点 —— 位姿残差和接触残差是论文里两条独立的残差，「怎么学对应」和「为什么非要 Edge 项」也是两件事，压进七幕会让左右翻转的算例和点云形变动画抢同一块画面；第 3–6 幕的小算例与笔记「🧮 数据计算实例」共用同一组数字），PHP 8 幕（跑酷四关 / 动作匹配的最近邻 / 临界阻尼弹簧把命令变成查询 / Loco → Skill → Loco 的拼接与入口密度 / 单技能专家 / DAgger 盲区与 PPO 课程 / 深度学生只拿速度命令 / 定量证据与真机 —— 「怎么找帧」和「查询从哪来」是论文附录 A 里分开的两节，「专家」与「蒸馏」是两个训练阶段，深度相机建模又是 sim-to-real 的主要工作量，压进七幕会让课程曲线和相机噪声抢同一帧），Perceptive BFM 7 幕（操作者—环境错配 / PMT 四阶段与「TCRS 只教不用」的契约 / TCRS 摆腿：接触、中足、MPPI / TCRS 身体：根高度、碰撞修复、多点 IK / 目标系动作对齐 / 恒等门控残差 / 定量证据与边界 —— TCRS 的「脚怎么走」与「身体怎么跟」各是一组公式，合成一幕会让 MPPI 候选表和根高度滤波抢画面；对齐与门控是论文两条独立的消融，各占一幕）。GentleHumanoid 7 幕（跟踪策略把外力当扰动 / 阻抗参考动力学 / 抵抗与引导两种交互弹簧 / 受力暴露的多样性 / 安全力阈值 / 教师—学生与柔顺奖励 / 定量证据与局限 —— 「交互力长什么样」与「什么时候、在哪几个 link、多硬」是论文式 3–4 与附录 A 调度两件事，阈值又有自己的截断公式与 ISO 换算，合并会让子步积分表、平衡点表与压强换算挤在同一帧）。四足野外盲走 9 幕（野外为什么难 / 相位振荡器 + 足端残差的动作空间 / 特权教师 / 本体学生 / 自适应地形课程 / 野外零样本与表 1 / 室内对照 / 记忆长度与踩空反射 / 解码器与局限 —— 论文的三个支柱 TCN 记忆、特权训练、地形课程各有一节方法和一组消融，加上单独的 Motion synthesis 就是第 2–5 幕；「野外 + 地下挑战赛」（表 1）与「室内台阶 / 负重 / 打滑」（图 3）是两类证据，「记忆要多长」（图 5B–D + 图 6）与「记忆里装了什么」（图 S2 的解码器）是验证节与分析节的两段，合成一幕会让表 1 的柱子和图 3E 的折线、或三档消融柱和摩擦曲线抢同一帧；动画、三个演示与笔记「🚶 具体实例」共用同一份论文数字，`test_quadterrain_explainer_demos_and_worked_example_share_the_paper_numbers` 会核对）。真实世界人形行走 10 幕（全尺寸人形为什么难 / 因果 Transformer / 两步训练 / 奖励与命令 / 虚拟弹簧与域随机化 / 户外与实验室 / 自然行走 / 下坡换步态 / 脚被绊住 / 消融与局限 —— 方法节的网络、训练目标、奖励、仿真各一幕；结果按论文的图一图一幕，图 5 的「慢变化改步态」与图 6 的「快变化被绊住」是上下文适应的两种时间尺度，各有一组神经元分析，合成一幕会让两条神经元曲线、二维散点和热图抢同一帧；14 项奖励塞进训练那一幕会和式 2、λ 曲线、图 8C 挤在一起；十幕起 `kit.js` 的幕号显示成 10 而不是 010，动画、三个演示、配音旁白与笔记「🚶 具体实例」共用同一份论文数字，命令、奖励、随机化、PPO 规模取自 arXiv v1 附录，图 2D、图 8 是读图近似值，`test_realhumanoid_explainer_demos_and_worked_example_share_the_paper_numbers` 会核对）。ASAP 12 幕（仿真里跳得起来、真机跳不动 / 从人类视频到 G1 参考动作 / 相位跟踪策略 / 上真机录一遍 / 残差动作模型 / 冻结 Δ 微调、部署时拿掉 / 开环回放（表 III）/ 闭环微调（表 IV）/ 真机只学脚踝（表 V）/ 怎么训 Δ（图 10）/ 怎么用 Δ（图 11）/ Δ 学到了什么与局限（图 12、13）—— 方法节「采数据」与「训练 Δ」是第 III-A、III-B 两节，Δ 的训练与使用各有一条式子；结果按论文自己提的 Q1–Q6 一问一幕，压成十幕会让表 III 与表 IV、或图 11 的曲线与图 12 的噪声柱抢同一帧；局限和真机那一幕讲的是同一批约束，并进最后一幕；第 5、11 幕的单关节玩具（G1 脚踝刚度 20、0.65 倍刚度的 −0.35 取自官方代码）与一步匹配的不动点 0.4077、三个演示、配音旁白与笔记「🚶 具体实例」共用同一份数字，图 5、图 11 是读图近似值，`test_asap_explainer_demos_and_worked_example_share_the_paper_numbers` 会核对，并用 Python 重跑一遍单关节玩具）。HumanML3D 9 幕（文本生成动作卡在哪 / 数据集怎么建 / 一帧 263 维 / 每 4 帧一个 snippet code / Text2Length / 时序 VAE 的一步 / 三项损失与课程学习 / 评测器与 R-Precision / 结果、消融与遗产 —— 一篇论文同时交了数据集、方法和评测协议：数据集的「怎么建」与「每帧存什么」是正文第 4、5 节两段，自编码器、长度采样、VAE 结构与训练方案在 §3.1–3.3 各自独立，评测器是附录 B 里后来被整个领域沿用的贡献，不能和 Table 2 的数字挤在一帧）。PHP、Perceptive BFM、GentleHumanoid 与 HumanML3D 的动画算例与笔记「🚶 具体实例」共用同一组数字（HumanML3D 用的是官方仓库自带的真实片段 `012314`）。Transformer 7 幕（RNN 的串行瓶颈 / 缩放点积注意力手算 / 为什么除以 $\sqrt{d_k}$ / 多头 / 位置编码 / 编码器—解码器与因果掩码 / 训练配方与结果 —— 「一次注意力怎么算」与「为什么要缩放」是 $d_k = 4$ 与 $d_k = 64$ 两组数，合成一幕会让权重条和梯度对比抢画面），π₀ 7 幕（三道坎 / 两套权重 / 分块掩码与 KV 缓存 / 流匹配 / 动作块与推理预算 / 数据与配方 / 实验与边界 —— 附录 B 里「两套权重」和「掩码」是分开的两段），π₀.₅ 7 幕（开放世界的难题 / 异构数据 / 两层推理 / 离散 + 连续两阶段 / 输入输出与部署 / 训练地点数 / 消融 —— 两层推理是推理时的分解、两阶段是训练时的分解），OP3 足球 12 幕（为什么是足球 / 一步控制 / 踢球教师 / 起身教师 / 按状态蒸馏与 λ / 自博弈 / 奖励与安全正则 / 零样本上真机 / 对比脚本控制器 / 定位球与对手意识 / 行为嵌入与价值函数 / 局限与之后 —— 两个阶段各有两件独立的事：踢球教师与起身教师是分开训的两个策略，蒸馏回答「向谁学」（式 2–3 的 λ）、自博弈回答「和谁踢」（对手池与图 7），论文是两段与两组消融；观测与滤波撑得起单独一幕；结果按论文小节一节一幕（表 1 与测法、图 5、图 4 + 图 6），压回七幕会让 λ 曲线和对手池、四项基本功和定位球抢同一帧；动画、三个演示、配音旁白与笔记「🚶 具体实例」共用同一份论文数字，156% / 24% 是 arXiv v1 的另一种测法，`test_op3soccer_explainer_demos_and_worked_example_share_the_paper_numbers` 会核对；十二幕的封面目录排成两列，单列会落到 3:4 裁剪线以下），SMP 8 幕（对抗先验不能复用 / 预训练冻结的扩散模型 / SDS 残差当奖励 / ESM 固定三档 / AdaNorm 按档归一化 / GSI 生成初始状态 / CFG 与上下半身组合 / 闭环、证据与边界 —— ESM 与 AdaNorm 同在论文 5.1 节，但一个管「抽哪一档」（方差，表 5 / 7）、一个管「三档怎么加」（量级，表 6），合成一幕会让 50 档的对数曲线和三档占比条抢同一帧；第 3–5、7 幕的二维玩具算例与笔记「🚶 具体实例」共用同一组数，`test_smp_explainer_and_worked_example_share_the_same_numbers` 会核对），域随机化 8 幕（现实鸿沟与第三条路 / 七项随机化与三种纹理 / 相机不标定 / VGG-16 检测器与训练 / 真机 1.5 cm / 图 4–5 的张数与纹理种数 / 表 2 逐项拿掉 / 真机抓取与之后 —— 「随机什么」与「相机怎么随机」是论文 III-A 里两件事，后者有自己的 10 × 5 × 10 cm / 0.1 rad / 5% 与桌高固定；「要多少」（图 4、图 5 两条对数轴曲线）与「拿掉哪一项」（表 2 的分组柱）是 IV-C 里两组独立的消融，合成一幕会抢同一帧；第 3、5–7 幕与三个演示、笔记「🚶 具体实例」共用同一份论文数字，图 4 / 图 5 是读图近似值，`test_dr_explainer_demos_and_worked_example_share_the_paper_numbers` 会核对）；Transformer、π₀、π₀.₅ 三篇的动画算例与笔记「🚶 具体实例」共用同一组数字，`tests/test_paper_demos.py::test_vla_explainers_share_numbers_with_their_notes` 会核对。
 
 改动分镜时，`tests/test_paper_demos.py::test_explainer_scene_count_matches_the_title_and_note` 会核对三件事是否一致：分镜数量、`title` / `ariaLabel` 里的中文幕数、笔记里的 `## 🎬 N幕动画` 标题；`sub` 里写的「约 N 秒」也要和各幕 `dur` 之和对得上。新增讲解动画时记得把 bundle 加进 `EXPLAINER_BUNDLES` 与 `EXPLAINER_SCENES` 两处。
 
@@ -96,6 +96,8 @@ Jekyll 把笔记渲染成同名 `.html`，源 `.md` 不会发布，所以 `[PPO]
 - **每幕最多留一条公式**，其余换成会动的图：抖动就让东西抖、取平均就让点一个个落下、权衡就画拔河；字幕和旁白讲图上在发生什么，不逐项念公式。
 - **循环动作按真实时间画**：`stage.html` 调 `draw(st, local)`，旁白比分镜长时 `st` 停在一段的末尾，`local` 照走；网页播放器只传 `t`。bundle 里写 `function draw(t, clock) { var now = clock == null ? t : clock; … }`，抖动、走路、滚动曲线按 `now` 画，出场时机仍按 `t`。
 - 推导细节、代数算例留在笔记的「🚶 具体实例」与交互演示里，动画只讲直觉和论文结论。
+- **画真实机器人用真机的图，不用火柴人**：取 [Robot_Description_Gallery_Online](https://github.com/ImChong/Robot_Description_Gallery_Online) 的 `web/thumbs/<id>.webp`（透明底，按各家开源 URDF 渲染），裁到机身、按 `data/robots.json` 的 `measured.height_m` 等比例缩放后放进 `assets/img/robots/`，图注写明出处；bundle 里用 `document.currentScript.src` 解析 `../../img/robots/`，网页和离线视频都能找到（LCP 第 10 幕就是这么做的）。
+- **改了某一幕先出这一段给人看**：`node render.mjs <paper> clip <from>,<to>` 只渲染这段时间并配上同一段旁白，确认后再重渲整片。
 
 ### 有讲解动画的笔记：动画之后的正文默认折叠
 

diff --git a/scripts/paper_video/README.md b/scripts/paper_video/README.md
@@ -70,6 +70,7 @@ npm install
 python3 build.py awr                  # 旁白 TTS -> out/awr/timeline.json + narration.wav
 node render.mjs awr stills 14,125,200 # 先抽几帧看排版 -> out/awr/still_<t>.png
 node render.mjs awr video 30          # 逐帧截图 -> ffmpeg -> out/awr/awr_video.mp4
+node render.mjs awr clip 120,180 30   # 只渲染 120–180 s 这一段（配同一段旁白）-> out/awr/clip_120-180.mp4，改了某一幕先给人看
 node render.mjs awr cover             # 封面（最初的片头设计、无字幕）-> out/awr/cover.png
 node check_layout.mjs awr cover       # 封面排版检查，输出 no overlap 才算过
 ```
